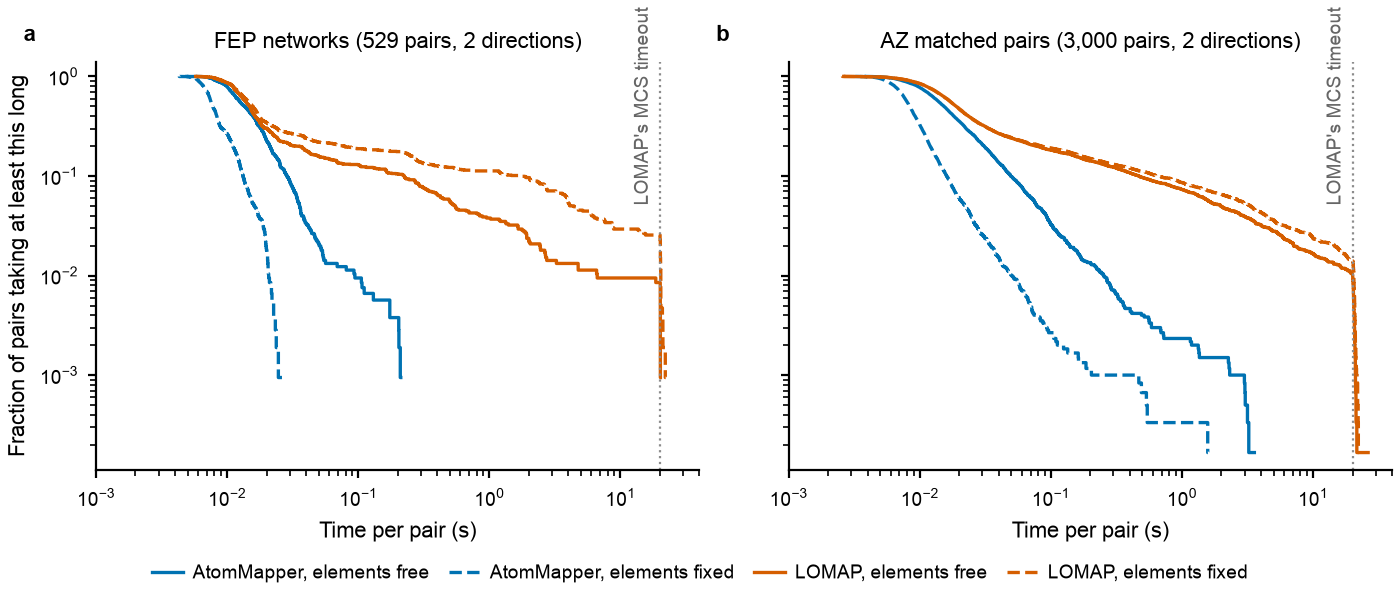
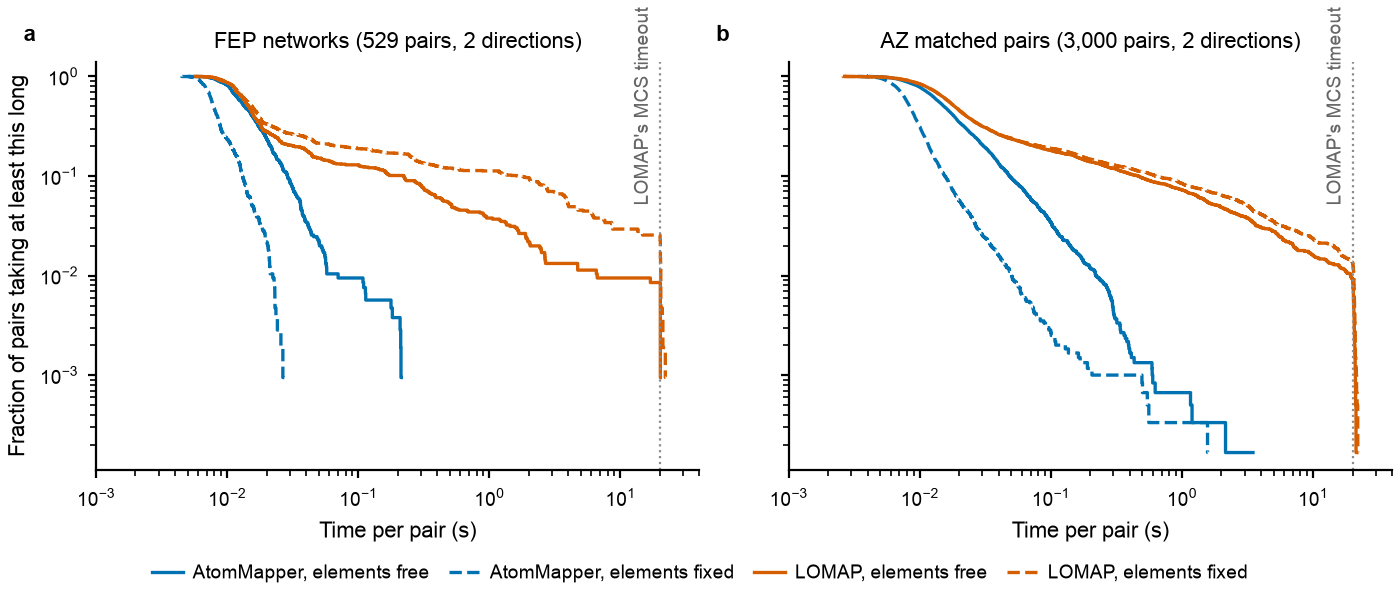
Rerun the LOMAP benchmark with 0.2.0
Same machine, workers, pairs and LOMAP, RDKit and Python versions as the 0.1.0
run. AtomMapper's mappings are unchanged: every count of the comparison with
LOMAP is the same, and AtomMapper again returns the reverse mapping on every
pair. Its total time is 165 s instead of 190 s on the AZ pairs with elements
free and unchanged elsewhere; LOMAP timed out three times fewer in each AZ
mode, which adds three compared mappings to each. The speedups read 17-101x
in total and 1.1-2.2x at the median, and the timing figure is redrawn.

AtomMapper's default limit is now described as a work limit of 60 virtual
seconds, and the isomorphism check of 6,451 cases as made on the 0.1.0 run.

diff --git a/benchmarks/README.md b/benchmarks/README.md
@@ -1,9 +1,9 @@
 # Benchmark: AtomMapper vs. OpenFE's LOMAP mapping step
 
 Across 529 free-energy network edges and 3,000 AstraZeneca matched molecular pairs,
-**AtomMapper used 17–102× less total mapping time** than LOMAP's mapping step. The main
+**AtomMapper used 17–101× less total mapping time** than LOMAP's mapping step. The main
 advantage was avoiding the small number of very slow LOMAP searches. Median per-pair
-speedups were more modest: **1.1–2.3×**.
+speedups were more modest: **1.1–2.2×**.
 
 With `objective="bonds"`, AtomMapper agreed with LOMAP on **95–98% of completed LOMAP
 mappings**, up to symmetry. AtomMapper finished all tested pairs within its default
@@ -18,14 +18,14 @@ other molecules. See the [main README](../README.md) for installation and usage.
 
 | Dataset | Element changes | Directed mappings | AtomMapper total | LOMAP total |
 |---|---|---:|---:|---:|
-| FEP networks | Allowed | 1,058 | 19 s | 322 s |
-| FEP networks | Forbidden | 1,058 | 9 s | 967 s |
-| AZ matched pairs | Allowed | 6,000 | 190 s | 3,223 s |
-| AZ matched pairs | Forbidden | 6,000 | 68 s | 4,218 s |
+| FEP networks | Allowed | 1,058 | 19 s | 317 s |
+| FEP networks | Forbidden | 1,058 | 9 s | 960 s |
+| AZ matched pairs | Allowed | 6,000 | 165 s | 3,135 s |
+| AZ matched pairs | Forbidden | 6,000 | 68 s | 4,108 s |
 
 Totals are **sums of per-call wall-clock times**, including timed-out calls, for both
 source-to-target and target-to-source mappings. They are not the elapsed time of the
-32-worker benchmark job. Times are rounded to whole seconds; the reported 17–102× range
+32-worker benchmark job. Times are rounded to whole seconds; the reported 17–101× range
 uses the underlying timings. AtomMapper timings refer to its default `"change"`
 objective; the `"bonds"` timings were similar (see below).
 
@@ -70,41 +70,43 @@ no time includes an import.
 
 ## Results
 
-Run on 2026-11-16 on an AMD Ryzen Threadripper PRO 5975WX (32 cores, 64 threads) with 32
-workers, Python 3.12, RDKit 2026.03.6, LOMAP 3.3.0 and AtomMapper 0.1.0. No method failed
-on any pair. Each result below counts both directions, so each pair counts twice.
+Run on 2026-11-18 on an AMD Ryzen Threadripper PRO 5975WX (32 cores, 64 threads) with 32
+workers, Python 3.12, RDKit 2026.03.6, LOMAP 3.3.0 and AtomMapper 0.2.0 (commit
+`76b163b`). No method failed on any pair. Each result below counts both directions, so
+each pair counts twice.
 The two AtomMapper objectives had similar timings, with per-mapping differences of at
-most 0.35 s in this run. The figure shows the default `"change"` objective.
+most 0.69 s in this run. The figure shows the default `"change"` objective.
 
 ### Time per pair
 
 ![Log-log timing distributions: AtomMapper has a shorter slow tail, while LOMAP calls extend to its MCS timeout](timing.png)
 
 Half of LOMAP's total mapping time went to its slowest 0.8–2.3% of mappings, each
-taking at least 14 s. Calls longer than one second accounted for 85–96% of its total time,
+taking at least 13 s. Calls longer than one second accounted for 85–96% of its total time,
 while representing only 4–11% of mappings. This slow tail explains why the aggregate
 speedup is much larger than the median speedup.
 
-Calls in which an MCS search reached LOMAP's 20 s timeout accounted for 34–57% of its
-total time: 9 and 27 of the 1,058 FEP mappings (elements free and fixed), and 54 and 81
+Calls in which an MCS search reached LOMAP's 20 s timeout accounted for 33–57% of its
+total time: 9 and 27 of the 1,058 FEP mappings (elements free and fixed), and 51 and 78
 of the 6,000 AZ mappings. The timeout applies to each MCS search, not necessarily to
-the entire LOMAP call. AtomMapper's longest call in this benchmark was 3.6 s.
+the entire LOMAP call. AtomMapper's longest call in this benchmark was 3.5 s.
 
 ### Mappings
 
 The mappings are compared only where LOMAP's MCS search finished. When it times out, LOMAP
 goes on with the MCS found by then, which depends on the machine's speed and load.
-`compare_lomap.py timeouts` maps the 171 timed-out cases again with other timeouts: at 5 s
-instead of 20 s, LOMAP's mapping changes in 1 case, and at 60 s in 13, each time keeping
-more bonds, while 74 cases still time out. This tests sensitivity to the time budget; it
-is not a direct measurement on slower or faster hardware. AtomMapper finished every pair
-within its work budgets and its default 60 s limit, so no result in this run was selected
-by a wall-clock cutoff.
+`compare_lomap.py timeouts` maps the 165 timed-out cases again with other timeouts: at 5 s
+instead of 20 s, LOMAP's mapping changes in 1 case, keeping fewer bonds, and at 60 s in 13,
+each time keeping more bonds, while 72 cases still time out. This tests sensitivity to
+the time budget; it is not a direct measurement on slower or faster hardware. AtomMapper
+finished every pair within its budgets and its default work limit (60 virtual seconds,
+counted in work, not read from a clock), so no result of its in this run depends on the
+machine.
 
 | | FEP, free | FEP, fixed | AZ, free | AZ, fixed |
 |---|---|---|---|---|
-| mappings compared (both directions) | 1,049 | 1,031 | 5,946 | 5,919 |
-| same mapping as LOMAP, up to symmetry (bonds) | 98.1% | 95.9% | 95.3% | 96.2% |
+| mappings compared (both directions) | 1,049 | 1,031 | 5,949 | 5,922 |
+| same mapping as LOMAP, up to symmetry (bonds) | 98.1% | 95.9% | 95.3% | 96.3% |
 | more bonds kept than LOMAP (bonds) | 0 | 1 | 20 | 2 |
 | fewer bonds kept than LOMAP (bonds) | 0 | 0 | 14 | 15 |
 | smaller change than LOMAP (change) | 2 | 11 | 133 | 68 |
@@ -130,20 +132,21 @@ by a wall-clock cutoff.
 
 "Same mapping, up to symmetry" means the same pairs of symmetry classes (RDKit canonical
 ranks without tie-breaking); in principle two mappings can share them without being related
-by a symmetry of the molecules. An isomorphism check of 6,451 of the cases, made outside
-these scripts, found none, here or in the symmetry table below.
+by a symmetry of the molecules. In the run of this benchmark with AtomMapper 0.1.0, an
+isomorphism check of 6,451 of the cases, made outside these scripts, found none, there or
+in the symmetry table.
 
 ### Symmetry
 
 Mapping B to A should give the reverse of mapping A to B. On the pairs where no run was
-stopped by the clock, the two directions give:
+stopped by a time limit, the two directions give:
 
 | | LOMAP: different bonds kept | LOMAP: different mapping | AtomMapper: either |
 |---|---|---|---|
 | FEP, elements free | 0 of 524 | 4 (0.8%) | 0 of 529 |
 | FEP, elements fixed | 1 of 515 | 6 (1.2%) | 0 of 529 |
-| AZ, elements free | 0 of 2,970 | 13 (0.4%) | 0 of 3,000 |
-| AZ, elements fixed | 1 of 2,956 | 22 (0.7%) | 0 of 3,000 |
+| AZ, elements free | 0 of 2,972 | 13 (0.4%) | 0 of 3,000 |
+| AZ, elements fixed | 1 of 2,958 | 22 (0.7%) | 0 of 3,000 |
 
 AtomMapper returns the reverse mapping, up to symmetry, on every pair of the benchmark, with
 either objective. Where LOMAP's two directions differ, they mostly keep the same bonds and choose

diff --git a/README.md b/README.md
@@ -9,9 +9,9 @@ AtomMapper follows mapping constraints based on OpenFE's LOMAP: a connected core
 complete rings, and preserved stereochemistry by default. Its search engine is written
 in Rust, with a Python API and command-line interface.
 
-**In the included benchmarks, AtomMapper used 17–102× less total mapping time than
+**In the included benchmarks, AtomMapper used 17–101× less total mapping time than
 LOMAP's mapping step** across 3,529 molecular pairs. Most of the gain comes from avoiding
-LOMAP's slowest searches; the median per-pair speedup was 1.1–2.3×. With the bond-maximizing
+LOMAP's slowest searches; the median per-pair speedup was 1.1–2.2×. With the bond-maximizing
 objective, 95–98% of mappings agreed with LOMAP up to symmetry, excluding LOMAP timeouts.
 These measurements cover mapping, not similarity scoring or network planning.
 See the [benchmark results and methodology](https://github.com/craabreu/atommapper/blob/main/benchmarks/README.md).
